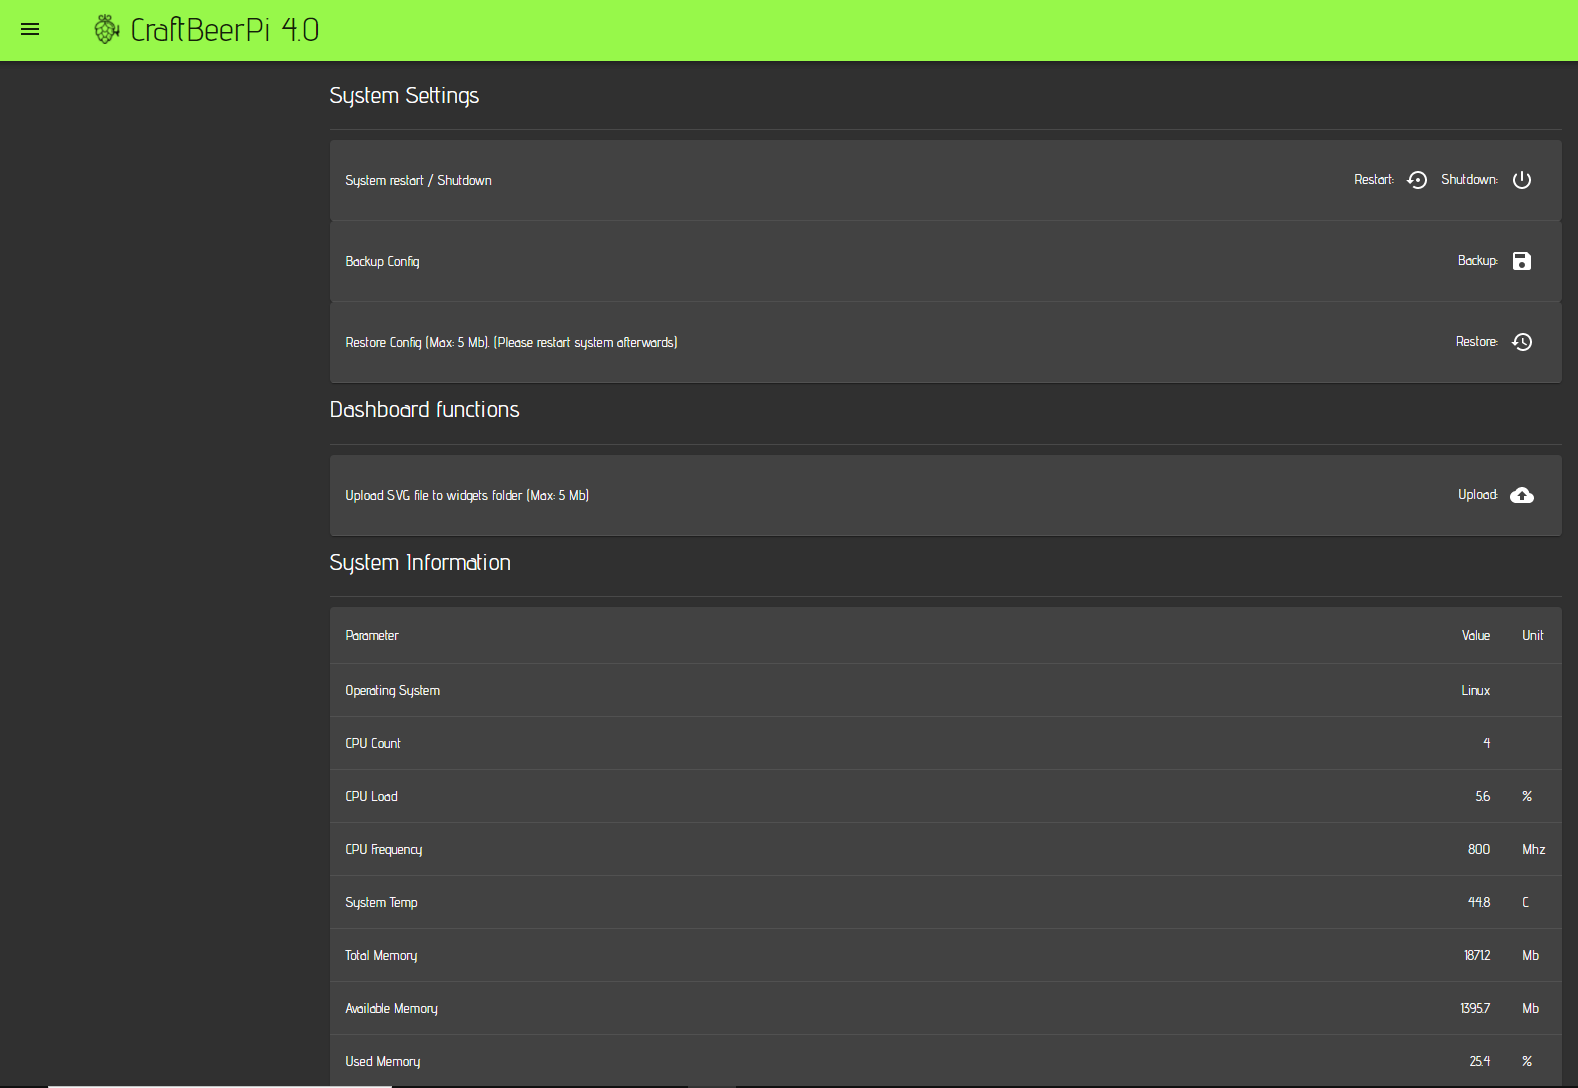
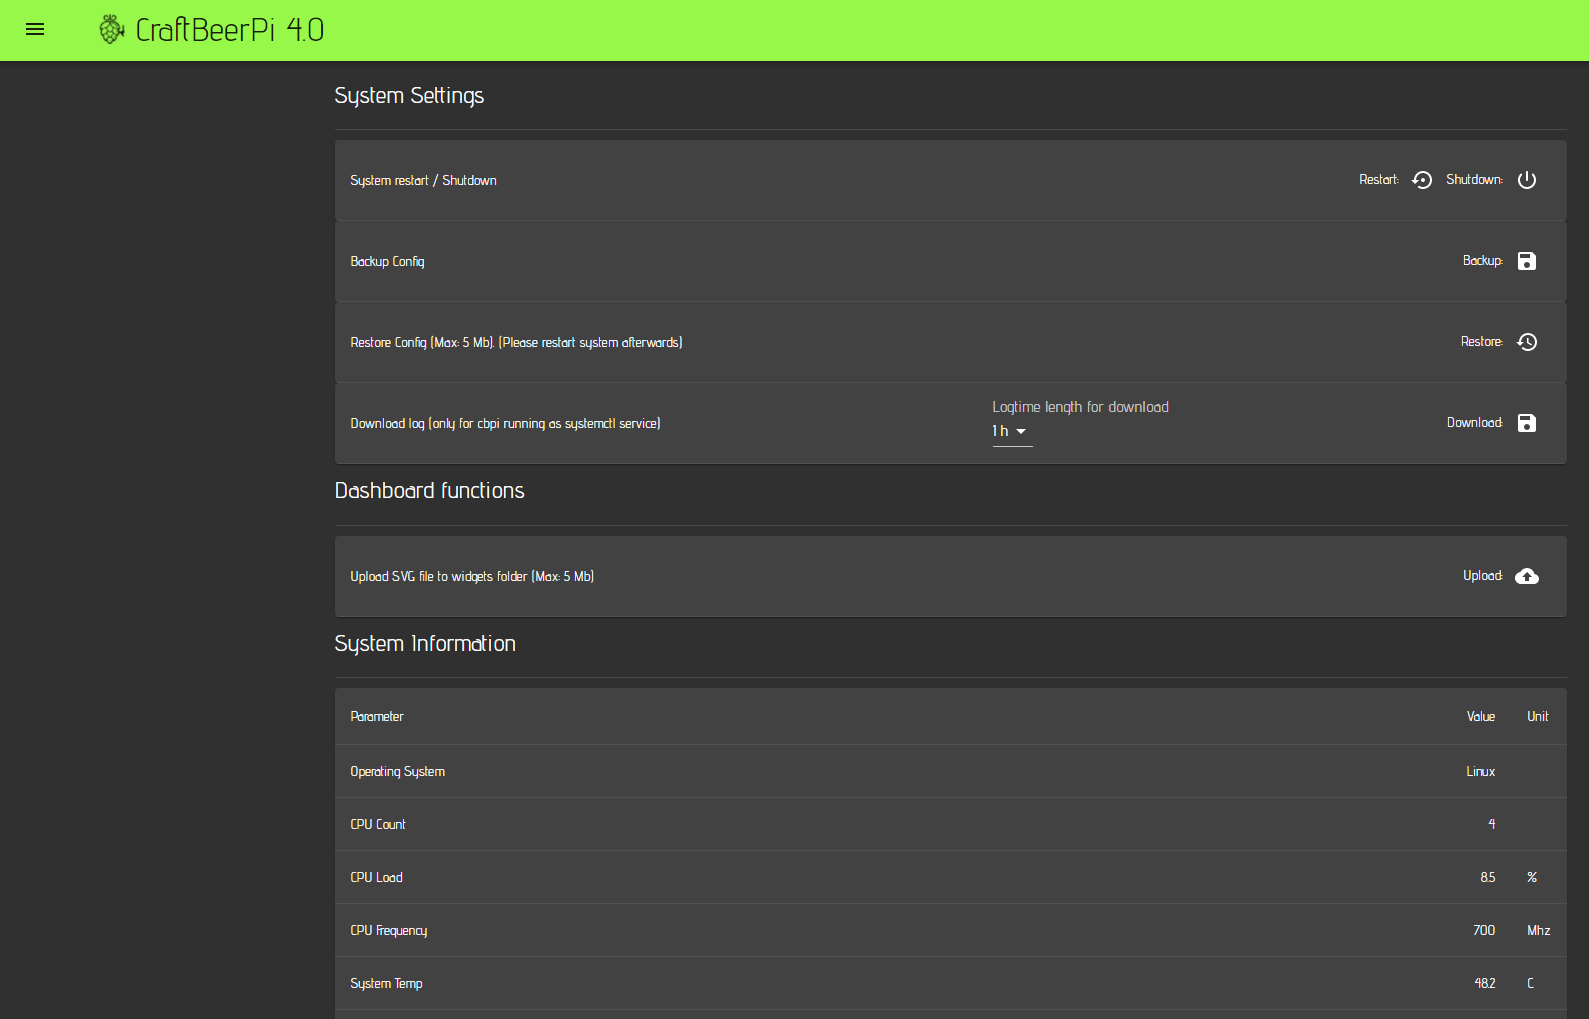
troubleshooting

diff --git a/master/craftbeerpi-4-server/system.md b/master/craftbeerpi-4-server/system.md
@@ -10,7 +10,9 @@ Not all systems will show all the information. This will depend on the OS and yo
 
 ### System Settings
 
-You can restart or shut the server down (currently only working under linux). You can also download a backup of your CraftbeerPi 4 server configuration or restore a config. The backup function will create a zip file of the config that you can download.
+1. You can restart or shut the server down (currently only working under linux). 
+
+2. You can also download a backup of your CraftbeerPi 4 server configuration or restore a config. The backup function will create a zip file of the config that you can download.
 
 ![Backup function will provide zip file for download](../../.gitbook/assets/cbpi4-settings-backup.png)
 
@@ -29,3 +31,5 @@ If you want to restore your config, just click on the restore button and select 
 {% hint style="warning" %}
 You need to restart the Server, before the restored settings will take effect.
 {% endhint %}
+
+3. You can download the cbpi logfile to look for issues. This will also help troubleshooting and if you ask for help. You need to select a timeframe and hit the downloadd button. This will download a zip file with some information on the server configuration and the log file for the specified timeframe. If you experience for instance issues with plugins, you should restart your server and download afterwards the logfile of the last hour this will help to identify issues with plugins that do not load correctly. See also [Troubleshooting](troubleshooting.md)
